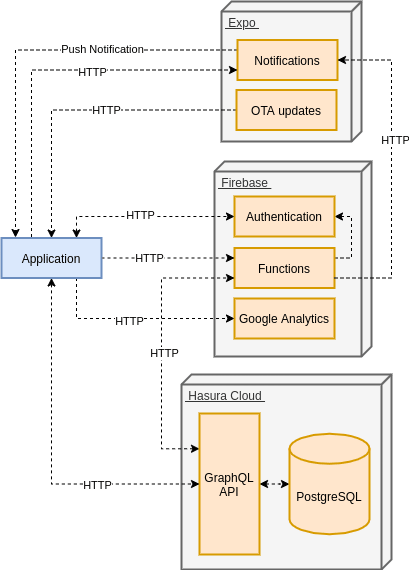
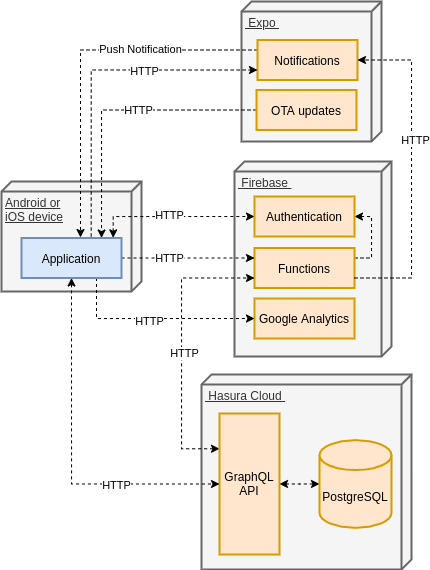
Updates - 9 days until deadline

diff --git a/Parts/5Results/24Engagement.tex b/Parts/5Results/24Engagement.tex
@@ -43,7 +43,7 @@ The responses to the statements were broadly distributed with both positive and 
 
 On the other hand, answers from S1, S3, and S5 were more on the negative side of the spectrum. 47\% (S1) disagreed that they were curious about which achievements they could earn in the game. In S3, 58\% of the participants answered that the game was not challenging enough. At last, answers from S5 reported that many of the users did not use reactions much.
 
-Among the two groups, there were some differences in their answers. Column p in Table \ref{tab:statement_significant_engagement} shows the low p-values ($p < 0.10$) found from running the Mann-Whitney test on the two sample groups. S4 is the only statement with a statistically significant difference between the two groups ($p < 0.05$). The results from the Mann-Whitney test on all of the statements can be found in Appendix \ref{appendix:statistics}.
+Mann-Withney tests were run for all statements to test for differences between the two groups  (see Appendix \ref{appendix:statistics}). Only one statement showed statistically significant differences between the two groups: the classmates were to a larger degree than the student society group inspired by challenges between friends to use the application (see Table \ref{tab:statement_significant_engagement}).
 
 
  \begin{table}[H]
@@ -78,7 +78,6 @@ The participants were also asked to answer how many days during the test period 
     \label{fig:engagement_perceived_usage}
 \end{figure}
 
-
 Table \ref{tab:engagement_questions} combines the responses from Q11-14. Columns \textit{Avg S} and \textit{Avg C} show the calculated average for the two groups, and \textit{Avg All} shows the average for the entire test group.  Q14 is the only question where the two groups differed by a considerable number. The student society group stated that they gave an average of 2.2 reactions, whereas the classmates had an average of 0.6 reactions.
 
 \begin{table}[H]
@@ -107,7 +106,6 @@ Table \ref{tab:engagement_questions} combines the responses from Q11-14. Columns
 In the questionnaire, respondents were given an option to leave additional comments regarding their perceived engagement. One participant wrote that they appreciated the push notification that reminded them to hover when they entered a valid area.
 
 \textit{"It's very nice that you get push alerts when you are in a zone where you can use Hover."\footnotemark}
-
 
 Another participant was not aware of this feature, likely because they did not provide appropriate permissions to the application. However, the player states that such a feature would have made them play the game more. 
 
@@ -172,7 +170,6 @@ Of the 116 activities published, 69\% were completed by the participants at the 
     \label{fig:engagement_actvities_per_group}
 \end{figure}
 
-
 Figure \ref{fig:engagement_actvities_per_user} shows the distribution of activities published per user. The bar chart shows that all but one user have performed between 2 and 8 activities each. The number of activities performed by user 1 deviates from the rest of the data set, with a peeking number of 24 activities. This deviation is remarkable as it increases the average number of activities among the Student society group from 5.1 to 6.7. However, the difference in the two groups is not significant (with outlier $p = 0.3821$, without $p = 0.5000$).
 
 \begin{figure}[H]
@@ -184,9 +181,10 @@ Figure \ref{fig:engagement_actvities_per_user} shows the distribution of activit
      \vspace*{-\baselineskip}
 \end{figure}
 
-Table \ref{tab:engagement_friend_tracking} reveals how the friend tracking feature has been used. 43 of the 116 activities published utilized friend tracking, which makes 37\% of all activities. 14 out of 19 participants used the feature at least once, where the student society group used it more frequently than the classmates, with an average of 2.7 times per participant. However, this difference is not significant ($p > 0.05$).
+Table \ref{tab:engagement_friend_tracking} reveals how the friend tracking feature has been used. 43 of the 116 activities published utilized friend tracking, which makes 37\% of all activities. 14 out of 19 participants used the feature at least once, where the student society group used it more frequently than the classmates, with an average of 2.7 times per participant. However, this difference is not significant.
 
 \begin{table}[H]
+    \vspace*{\baselineskip}
     \centering
     \small
     \begin{tabularx}{\textwidth}{|X|c|c|c|}
@@ -200,7 +198,6 @@ Table \ref{tab:engagement_friend_tracking} reveals how the friend tracking featu
     \end{tabularx}
     \caption{The participants’ use of Hover’s friend tracking feature.}
     \label{tab:engagement_friend_tracking}
-    \vspace*{2\baselineskip}
 \end{table}
 
 \textbf{Locations} \\
@@ -244,10 +241,8 @@ Figure \ref{fig:engagement_points_in_category} shows the average score in each c
     \label{fig:engagement_points_in_category}
 \end{figure}
 
-
-
 \textbf{Achievements} \\
-In the next figure (Figure \ref{fig:engagement_achievement_earned}), achievements earned by the participants are presented. The color of the bar symbolizes the difficulty level of the achievement. They are also grouped according to their type. Due to the design of the achievement system, there is naturally an abundance of bronze achievements and a low number of gold achievements. Since all players have earned two or more achievements, all 19 players have received the \textit{First activity} achievement, and 15 players have accumulated 1000 points or more. Out of the four \textit{points-in-category} achievements, the cultural category has been awarded to the highest number of players.
+Achievements earned by the participants are presented in Figure \ref{fig:engagement_achievement_earned}. The color of the bar symbolizes the difficulty level of the achievement. They are also grouped according to their type. Due to the design of the achievement system, there is naturally an abundance of bronze achievements and a low number of gold achievements. All players earned two or more achievements, and thus, all 19 players received the \textit{First activity} achievement, and 15 players accumulated 1000 points or more. Out of the four \textit{points-in-category} achievements, the cultural category has been awarded to the highest number of players.
 
 \begin{figure}[H]
  \vspace*{-\baselineskip}
@@ -258,7 +253,7 @@ In the next figure (Figure \ref{fig:engagement_achievement_earned}), achievement
      \vspace*{-\baselineskip}
 \end{figure}
 
-The number of achievements earned by the two groups (see Figure \ref{fig:engagement_achievement_per_group} shows a considerable difference, where the student society group earned almost three times as many achievements as the group of classmates.
+The number of achievements earned by the two groups (see Figure \ref{fig:engagement_achievement_per_group}) shows a considerable difference, where the student society group earned almost three times as many achievements as the group of classmates.
 
 \begin{figure}[H]
     \vspace*{-1\baselineskip}
@@ -293,7 +288,6 @@ Figure \ref{fig:engagement_created_challenges} shows the seven challenges create
 \textbf{Reactions} \\
 The reactions given by the users are shown in Figure \ref{fig:engagement_reactions_per_group}. The student society group accounted for 89\% of the reactions, while the group of classmates generated 11\%. The student society group is larger than the group of classmates, and naturally, they represent a larger number of the given reactions. However, the average number of reactions given by the two groups shows that the student society group gave reactions more frequently (see Figure \ref{fig:engagement_reactions_per_user}).
 
-
 Figure \ref{fig:engagement_reactions_per_user} shows the average number of reactions given by each user. The student society group gave 4.8 reactions per participant, and the classmates gave one reaction per participant. The blue and red linear graphs in the figure are the averages. There were six users, three from each group, who did not react to any posts at all. Additionally, there was one user (1) that used the reaction feature remarkably more than any other participant, reacting to a total of 25 posts. This outlier increased the average result per user in the student society group from 3.0 to 4.8. Even if we ignore the outlier, the student society reacted to three times as many posts as the classmates (with outlier $p = 0.0643$, without $p = 0.0951$).
 
 \begin{figure}[H]
@@ -304,4 +298,4 @@ Figure \ref{fig:engagement_reactions_per_user} shows the average number of react
 \end{figure}
 
 \subsection{Summary}
-This chapter described results relevant to RQ2, based on data collected from the questionnaire and the application. The next chapter presents results related to the next research question (RQ3), describing the players' motivation.
+This chapter described results relevant to RQ2, based on data collected from the questionnaire and the application. The results also highlighted remarkable differences in engagement among the student society group and the group of classmates. The next chapter presents results related to the next research question (RQ3), describing the players' motivation.

diff --git a/Parts/Sammendrag.tex b/Parts/Sammendrag.tex
@@ -1,12 +1,12 @@
-I dette prosjektet har vi funnet opp, utviklet og evaluert et alternativt spillkonsept. Et alternativt spill defineres som \textit{“et spill hvor en eller flere av karakteristikkene til spillet avviker fra et vanlig spill.”} Prosjektet bygger på en forstudie der eksisterende alternative spill og grunnleggende spilldesignteori ble studert.
+I dette prosjektet har vi utviklet og evaluert et nytt alternativt spillkonsept. Et alternativt spill defineres som \textit{“et spill hvor en eller flere av karakteristikkene til spillet avviker fra et vanlig spill.”} Prosjektet bygger på en forstudie der eksisterende alternative spill og grunnleggende teori om spilldesign ble studert.
 
-Konseptet \textit{Hover} er et gripende spill hvor lokasjonen brukes som den primære måte å kontrollere spillet på. Spillere får poeng for å være på bestemte steder i den virkelige verden som kan forbedre deres mentalitet. Eksempler på steder inkluderer treningssentre, skoler og museer. Sosiale elementer og andre typiske spilldesignelementer har blitt brukt til å utvikle et engasjerende spill.
+Konseptet \textit{Hover} er et gjennomgripende spill, på engelsk pervasive games, hvor lokasjonen brukes som primær input. Spillere får poeng for å være på bestemte steder i den virkelige verden som kan forbedre deres “well-being”. Eksempler på steder inkluderer treningssentre, skoler og museer. Sosiale elementer og andre typiske spilldesignelementer er blitt brukt for å utvikle et engasjerende spill.
 
-Hover ble testet på to grupper mennesker for å evaluere hvordan spillet påvirket spillernes engasjement, motivasjon, glede og vaner. Forskjeller mellom gruppene ble også vurdert. Deltakerne brukte applikasjonen i to uker før de ble bedt om å fylle ut et spørreskjema. Svarene fra dette spørreskjemaet, i tillegg til observasjoner av deltakerne underveis i testingen, intervjuer og analysedata, ble brukt til å konkludere studien.
+Hover ble testet på to grupper for å evaluere hvordan spillet påvirket spillernes engasjement, motivasjon, glede og vaner. Forskjeller i resultatene til gruppene ble evaluert. Deltakerne brukte applikasjonen i to uker før de ble bedt om å fylle ut et spørreskjema. Svarene fra dette spørreskjemaet, i tillegg til observasjoner av deltakerne underveis i testingen, intervjuer og analysedata, ble brukt for å konkludere studien.
 
-Testingen avslørte at spillets sosiale elementer påvirket spillernes engasjement, motivasjon og glede. Andre spillelementer, som poeng og toppliste, påvirket også spillernes oppfatning av spillet. Derimot ble ikke spillernes vaner påvirket i nevneverdig grad. Eksperimentet illustrerte også at det sosiale båndet mellom deltakerne i en gruppe påvirket bruken av applikasjonen.
+Testingen avslørte at spillets sosiale elementer påvirket spillernes engasjement, motivasjon og glede. Andre spillelementer, som poeng og toppliste, påvirket også spillernes inntrykk av spillet. Derimot ble ikke spillernes vaner påvirket i nevneverdig grad. Eksperimentet illustrerte også at det sosiale båndet mellom deltakerne i en gruppe påvirket bruken av applikasjonen.
 
-Selv om den pågående Covid-19-pandemien hadde stor innvirkning på testingen av Hover, viser resultatene lovende potensial. Dermed anbefales videreutvikling og testing av konseptet for å kunne trekke en fullstendig konklusjon.
+Selv om den pågående Covid-19-pandemien hadde stor innvirkning på testingen av Hover, viser resultatene lovende potensial for videre konseptutvikling. Dermed anbefales videreutvikling og testing av konseptet for å kunne trekke en fullstendig konklusjon.
 
 \par\vspace*{\fill} % Moves keywords to the bottom of the page
 \textbf{\textit{Nøkkelord --}} NTNU, Datateknologi, Programvareutvikling, Spillutvikling, Masterprosjekt, Alternative spill, Gripende spill, Gamification, Samfunnsnyttig, Lokasjonsbasert % Add all the keywords associated with your thesis here

diff --git a/Parts/5Results/26Enjoyment.tex b/Parts/5Results/26Enjoyment.tex
@@ -94,12 +94,12 @@ As part of the questionnaire, the respondents were asked if they had any additio
 \begin{table}[H]
     \vspace*{0.5\baselineskip}
     \centering
-    \begin{tabularx}{0.6\textwidth}{|X|c|c|}
+    \begin{tabularx}{0.6\textwidth}{|X|r|r|}
         \hline
-        \multicolumn{1}{|c}{\textbf{Technical problems?}} & \multicolumn{1}{|c|}{Yes} & \multicolumn{1}{|c|}{No} \\ \hline
-        \textbf{All} & 47.37\% & 52.63\% \\ \hline
-        \textbf{iOS} & 0.00\% & 100.00\% \\ \hline
-        \textbf{Android} & 66.67\% & 33.33\% \\ \hline
+        \multicolumn{1}{|c|}{\textbf{Technical problems?}} & \multicolumn{1}{c|}{\textbf{Yes}} & \multicolumn{1}{c|}{\textbf{No}} \\ \hline
+        \textbf{All} & 47.4\% & 52.6\% \\ \hline
+        \textbf{iOS} & 0.0\% & 100.0\% \\ \hline
+        \textbf{Android} & 66.7\% & 33.3\% \\ \hline
     \end{tabularx}
     \caption{Percentage of people who had technical problems with the application in the test period}
     \label{tab:technical_problems}
@@ -129,5 +129,5 @@ Two of the interviewed participants also told us that they were forced to stay a
 Observations of players confirmed some of the aspects of players’ enjoyment revealed during the interviews. While observing people using the application, the social interaction seemed to cause the most enjoyment from the participants. People were talking about Hover and planning who should hover together. Apart from that, the observations did not reveal anything of significance related to the players’ enjoyment.
 
 \subsection{Summary}
-This chapter described results from the questionnaire, interviews, and observations relevant to RQ4. The next chapter will continue presenting results from the survey and shift focus to the next research question (RQ5), investigating how Hover affected peoples’ habits.
+This chapter has presented results on player enjoyment gathered from the questionnaire, interviews, and observations. We also presented differences in perceived enjoyment between the two groups, using Mann-Whitney tests. The next chapter will present results related to the RQ5, investigating how Hover affected peoples’ habits.
 

diff --git a/Parts/2Prestudy/06DesignAnEnjoyableGame.tex b/Parts/2Prestudy/06DesignAnEnjoyableGame.tex
@@ -4,7 +4,7 @@
 How to create an enjoyable game is an important part of every game development process. This chapter presents a literature study of the subject based on work conducted by \citeauthor{malone_what_1980} in 1980, and \citeauthor{sweetser_gameflow_2005}’s “GameFlow: a model for evaluating player enjoyment in games” article. \citeauthor{malone_what_1980}’s research outlines challenge, fantasy, and curiosity as the three main elements to increase motivation in games. The GameFlow article presents a model for evaluating enjoyment in games based on eight elements. Even though different authors wrote these articles, they present a lot of the same mindset in what characterizes an enjoyable game.
 
 \subsection{What Makes Things Fun to Learn?}
-Malone presented in his study from \citeyear{malone_what_1980} a framework for creating enjoyable games. As mentioned above, he organized the essential properties of what makes a good game into the three categories; challenge, fantasy, and curiosity. Malone wrote multiple articles on the topic. His main findings were summarized in “What Makes Things Fun to Learn? Heuristics for Designing Instructional Computer Games”. Even though this research was conducted in 1980 and the examples he presents are somewhat old, the main concepts are still highly relevant today.
+Malone presented in his study from \citeyear{malone_what_1980} a framework for creating enjoyable games. As mentioned above, he organized the essential properties of what makes a good game into the three categories: challenge, fantasy, and curiosity. Malone wrote multiple articles on the topic. His main findings were summarized in “What Makes Things Fun to Learn? Heuristics for Designing Instructional Computer Games”. Even though this research was conducted in 1980 and the examples he presents are somewhat old, the main concepts are still highly relevant today.
 
 \subsubsection{Challenge}
 The first property presented by Malone is \textit{challenge}:

diff --git a/Parts/2Prestudy/12TechnologyReview.tex b/Parts/2Prestudy/12TechnologyReview.tex
@@ -59,7 +59,7 @@ Alternative games often utilize the mobile phone’s sensors, such as GPS, Bluet
 \subsubsection{Native Solutions}
 The obvious drawback of using the native approach is that Android and iOS applications need to be developed separately. Since the native solutions for Android and iOS are based on two different programming languages, Java/Kotlin and Swift, code cannot be shared between both applications. The developers then have to implement and maintain both solutions, resulting in a “doubled” work amount.
 
-The main strength of the native solution is that you always have access to the latest and greatest APIs provided by the companies developing the operating systems. Every time a new OS gets released, the developers have access to the latest features instantly. Availability of new features can be valuable for developers when working with special features that are not commonly utilized and creates a faster implementation loop when new features become available.
+The main strength of the native solution is that you always have access to the latest and greatest APIs provided by the companies developing the operating systems. Every time a new OS gets released, the developers have access to the latest features instantly. Availability of new features can be valuable for developers when working with special features that are not commonly utilized and create a faster implementation loop when new features become available.
 
 Another strength of the native solution is maturity. The APIs and tools provided are usually well documented and tested. Developing an application using this approach is not dependent on third-party developers writing documentation and updating their framework. 
 

diff --git a/Parts/3Hover/16GameDescription.tex b/Parts/3Hover/16GameDescription.tex
@@ -148,7 +148,7 @@ The third main screen in the application incorporates Hover’s central game fun
 
 \clearpage
 
-When the user is ready to publish the activity, the stop button is pressed, and a new publish page is presented (see Figure \ref{fig:tracking_publish}). The page includes a summary of the activity, displaying earned points and other information. The user can also add a caption to customize their post, further described what they did. Pressing the publish button processes the activity and post it to the feed.
+When the user is ready to publish the activity, the stop button is pressed, and a new publish page is presented (see Figure \ref{fig:tracking_publish}). The page includes a summary of the activity, displaying earned points and other information. The user can also add a caption to customize their post, further described what they did. Pressing the publish button processes the activity and posts it to the feed.
 
 \subsection{Leaderboard Screen}
 The leaderboard introduces the ability for the users to compare themselves against others. Figure \ref{fig:leaderboard} shows an example where the top 10 players are listed. The leaderboard can be filtered by both time and category, depending on the user’s interest. Streaks, illustrating the number of days in a row a user has published an activity, are also displayed. Additionally, the rows in the list can also be pressed to navigate to that player’s profile.

diff --git a/Parts/3Hover/19GameDevelopment.tex b/Parts/3Hover/19GameDevelopment.tex
@@ -36,8 +36,9 @@ Designing the software architecture is a crucial phase in the development of eve
 As illustrated in Figure \ref{fig:architecture_overview}, the system consists of four main parts: the application, a Hasura storage solution, the Firebase backend, and Expo for handling notifications and over-the-air (OTA) updates. The communication between the parts, illustrated with the dotted lines, is encrypted and secured via HTTPS. The arrow shows which direction the information is mainly traveling.
 
 \begin{figure}[H]
+ \vspace{-0.4\baselineskip}
     \centering
-    \includegraphics[width=0.58\textwidth]{Images/GameDevelopment/ArchitectureOverview.png}
+    \includegraphics[width=0.62\textwidth]{Images/GameDevelopment/ArchitectureOverview.png}
     \caption{Simplified architectural overview.}
     \label{fig:architecture_overview}
     \vspace{-\baselineskip}
@@ -53,7 +54,7 @@ Hasura was used as the storage solution in this project. The solution consists o
 
 \begin{figure}[H]
     \centering
-    \includegraphics[width=0.8\textwidth]{Images/GameDevelopment/HasuraAuth.png}
+    \includegraphics[width=0.9\textwidth]{Images/GameDevelopment/HasuraAuth.png}
     \caption{Hasura JWT authorization flow \citep{hasura_authentication_2021}.}
     \label{fig:hasura_auth}
 \end{figure}

diff --git a/Parts/5Results/25Motivation.tex b/Parts/5Results/25Motivation.tex
@@ -150,5 +150,4 @@ Another proposal for enhancing the player’s motivation was to add more incenti
 Observations of participants playing the game again confirmed how important the social aspect was for the motivation. There were multiple situations of someone mentioning the game to others, sometimes almost forcing them to play. Without the social incentive and pressure to play, players’ motivation would decrease. Apart from this confirmation, the observations did not reveal anything worth mentioning.
 
 \subsection{Summary}
-The aspect of the survey related to the players’ motivation has been presented in this chapter. In the next one, we will shift focus to the players’ enjoyment and look at data that can be used to answer the next research question, RQ4.
-
+The results related to the players’ motivation has been presented in this chapter. We have highlighted the participants' perceived motivation through answers given in the questionnaire and interviews. We also presented in-game observations and identified differences between the two groups. In the next chapter, we will shift focus to the players’ enjoyment and look at data that can be used to answer the next research question, RQ4.

diff --git a/Parts/4Experiment/22ReliabilityAndValidity.tex b/Parts/4Experiment/22ReliabilityAndValidity.tex
@@ -20,4 +20,4 @@ The ongoing Covid-19 Pandemic is also a factor that might influence the results 
 The results from the survey and this question will be discussed further in the next part of this thesis.
 
 \subsection{Summary}
-This chapter has highlighted some essential factors that may affect the result of our study. The knowledge will be considered when analyzing our study results in Part \ref{part:results} of our thesis.
+This chapter addressed potential factors that can affect the reliability of the data collected in our experiment. These implications can affect the validity of our research results. Thus, the factors will be considered when discussing our results in Chapter \ref{chap:discussion}. This chapter wraps up Part \ref{part:experiment}, describing the experiment, data collection methods, and validity concerns. The next part presents the results of the experiment.
